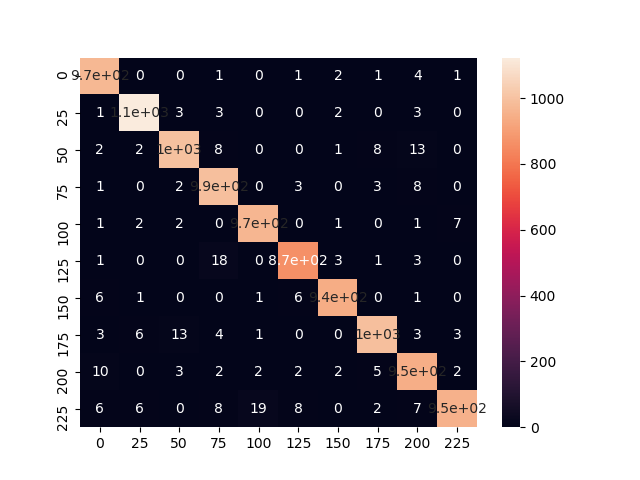
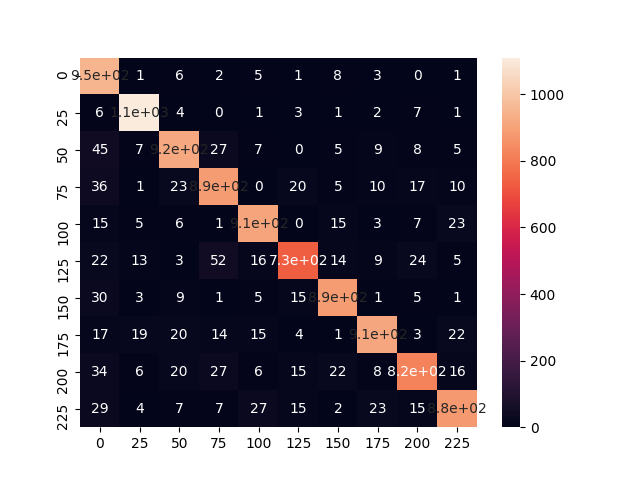
GPU 90%

diff --git a/main.py b/main.py
@@ -11,7 +11,7 @@ from utils import EarlyStopping
 import functions.loss_f as loss_f
 import numpy as np
 from datetime import datetime
-#import pycuda.driver as cuda
+import pycuda.driver as cuda
 from torch.nn.utils import clip_grad_norm_
 from torch.nn.utils import clip_grad_value_
 import global_v as glv
@@ -230,9 +230,9 @@ if __name__ == '__main__':
 
     error = loss_f.SpikeLoss(params['Network']).to(device)
 
-    optimizer = torch.optim.AdamW(net.get_parameters(), lr=params['Network']['lr'], betas=(0.9, 0.999))
-    #optimizer = torch.optim.SGD(net.get_parameters(), lr =
-    #        params['Network']['lr'] * 100, 0.9)
+    #optimizer = torch.optim.AdamW(net.get_parameters(), lr=params['Network']['lr'], betas=(0.9, 0.999))
+    optimizer = torch.optim.SGD(net.get_parameters(), lr=\
+            params['Network']['lr'] * 100, momentum=0)
     best_acc = 0
     best_epoch = 0
     

diff --git a/functions/tsslbp.py b/functions/tsslbp.py
@@ -63,11 +63,11 @@ class TSSLBP(torch.autograd.Function):
         #best_neighbor = best_neighbor * neuron_num +\
         #    torch.tensor(range(neuron_num))
         #selected_neighbor = neighbors[best_neighbor]
-        mask = torch.eye(n_steps)[best_neighbor].view(shape)
+        mask = torch.eye(n_steps, device=glv.device)[best_neighbor].view(shape)
         mask = mask * (outputs - 0.5) * 0.2
         projects = projects.view(n_steps * neuron_num, -1)
         best_projects = projects[best_neighbor * neuron_num +\
-                torch.tensor(range(neuron_num))]
+                torch.tensor(range(neuron_num), device=glv.device)]
         #best_projects = best_projects.where(best_projects > 0, best_projects * 0)
         best_projects = best_projects.repeat(1, n_steps).view(shape)
         #sig = nb.sigmoid(u, 0.2)

diff --git a/layers/conv.py b/layers/conv.py
@@ -72,7 +72,7 @@ class ConvLayer(nn.Conv3d):
 
         super(ConvLayer, self).__init__(in_features, out_features, kernel, stride, padding, dilation, groups,
                                         bias=False)
-        # nn.init.kaiming_normal_(self.weight)
+        nn.init.kaiming_normal_(self.weight)
         self.weight = torch.nn.Parameter(weight_scale * self.weight, requires_grad=True)
 
         self.in_shape = in_shape

diff --git a/utils.py b/utils.py
@@ -2,8 +2,8 @@ import os
 import numpy as np
 import torch
 import matplotlib.pyplot as plt
-#import pycuda.driver as cuda
-#import pycuda.autoinit  # Necessary for using its functions
+import pycuda.driver as cuda
+import pycuda.autoinit  # Necessary for using its functions
 
 
 # task_train = Progress().add_task("[red]Training...", total=100)
